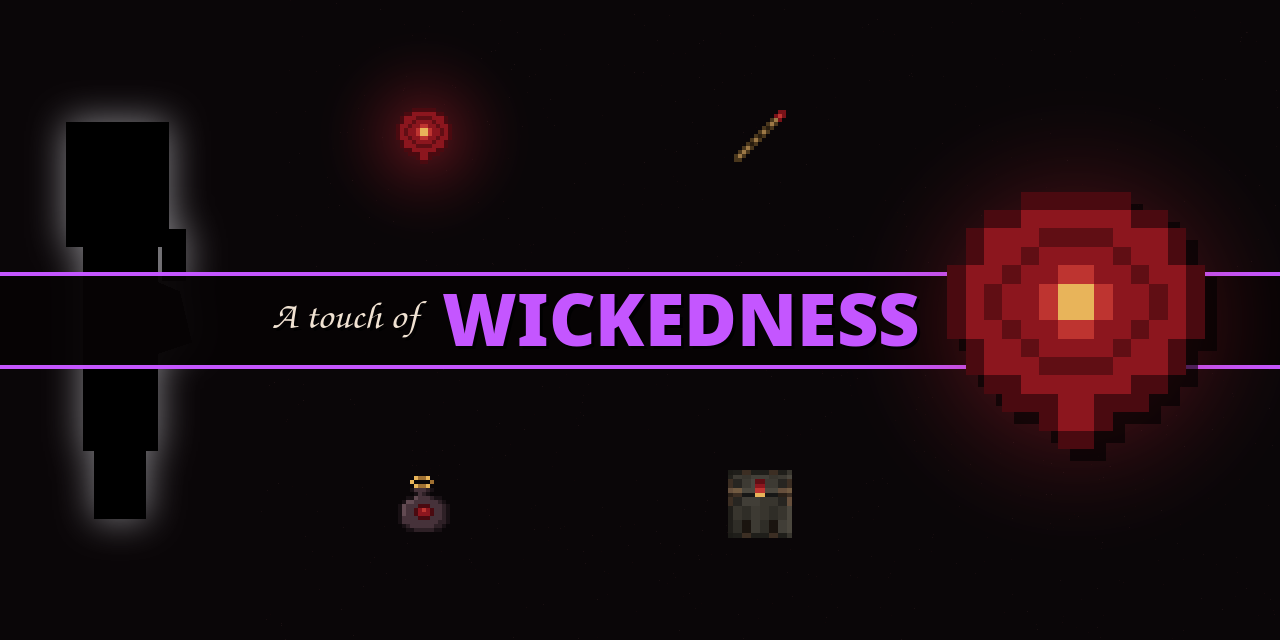
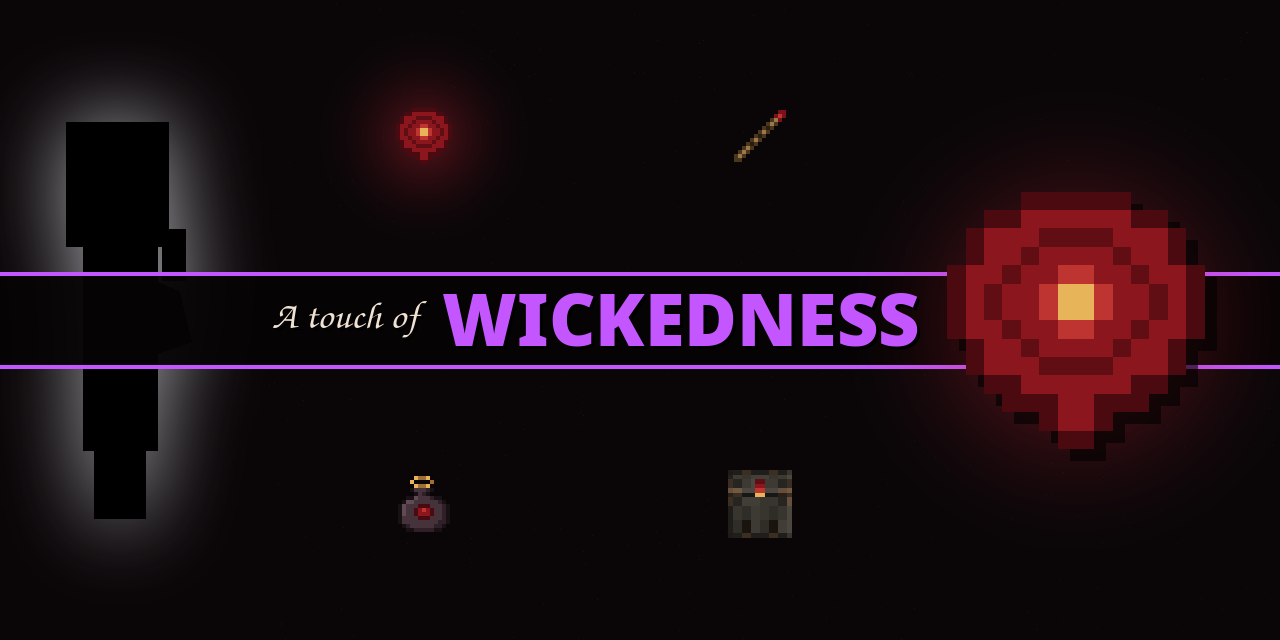
docs(publish): soften and widen the bailiff's glow

diff --git a/publish/make-cover.py b/publish/make-cover.py
@@ -61,7 +61,7 @@ def bailiff(h):
     # 16ths of a block: the hooded head and its long nose, the arms crossed before him, the robe and
     # the legs under it, in a soft light grey glow so he stands out of the dark
     u = h / 35
-    k = int(u * 4)
+    k = int(u * 8)
     im = Image.new('RGBA', (int(12 * u) + 2 * k, h + 2 * k))
     d = ImageDraw.Draw(im)
     for x0, y0, x1, y1 in [(0.5, 0, 9.5, 11), (9, 9.5, 11, 14), (2, 10.5, 8.5, 29), (3, 26, 7.5, 35)]:
@@ -70,7 +70,7 @@ def bailiff(h):
               fill=(0, 0, 0, 255))
     a = im.getchannel('A')
     halo = Image.new('RGBA', im.size, (190, 190, 196, 0))
-    halo.putalpha(a.filter(ImageFilter.GaussianBlur(u * 1.6)).point(lambda v: v * 7 // 10))
+    halo.putalpha(a.filter(ImageFilter.GaussianBlur(u * 3.5)).point(lambda v: min(255, v * 9 // 10)))
     halo.alpha_composite(im)
     return halo
 
